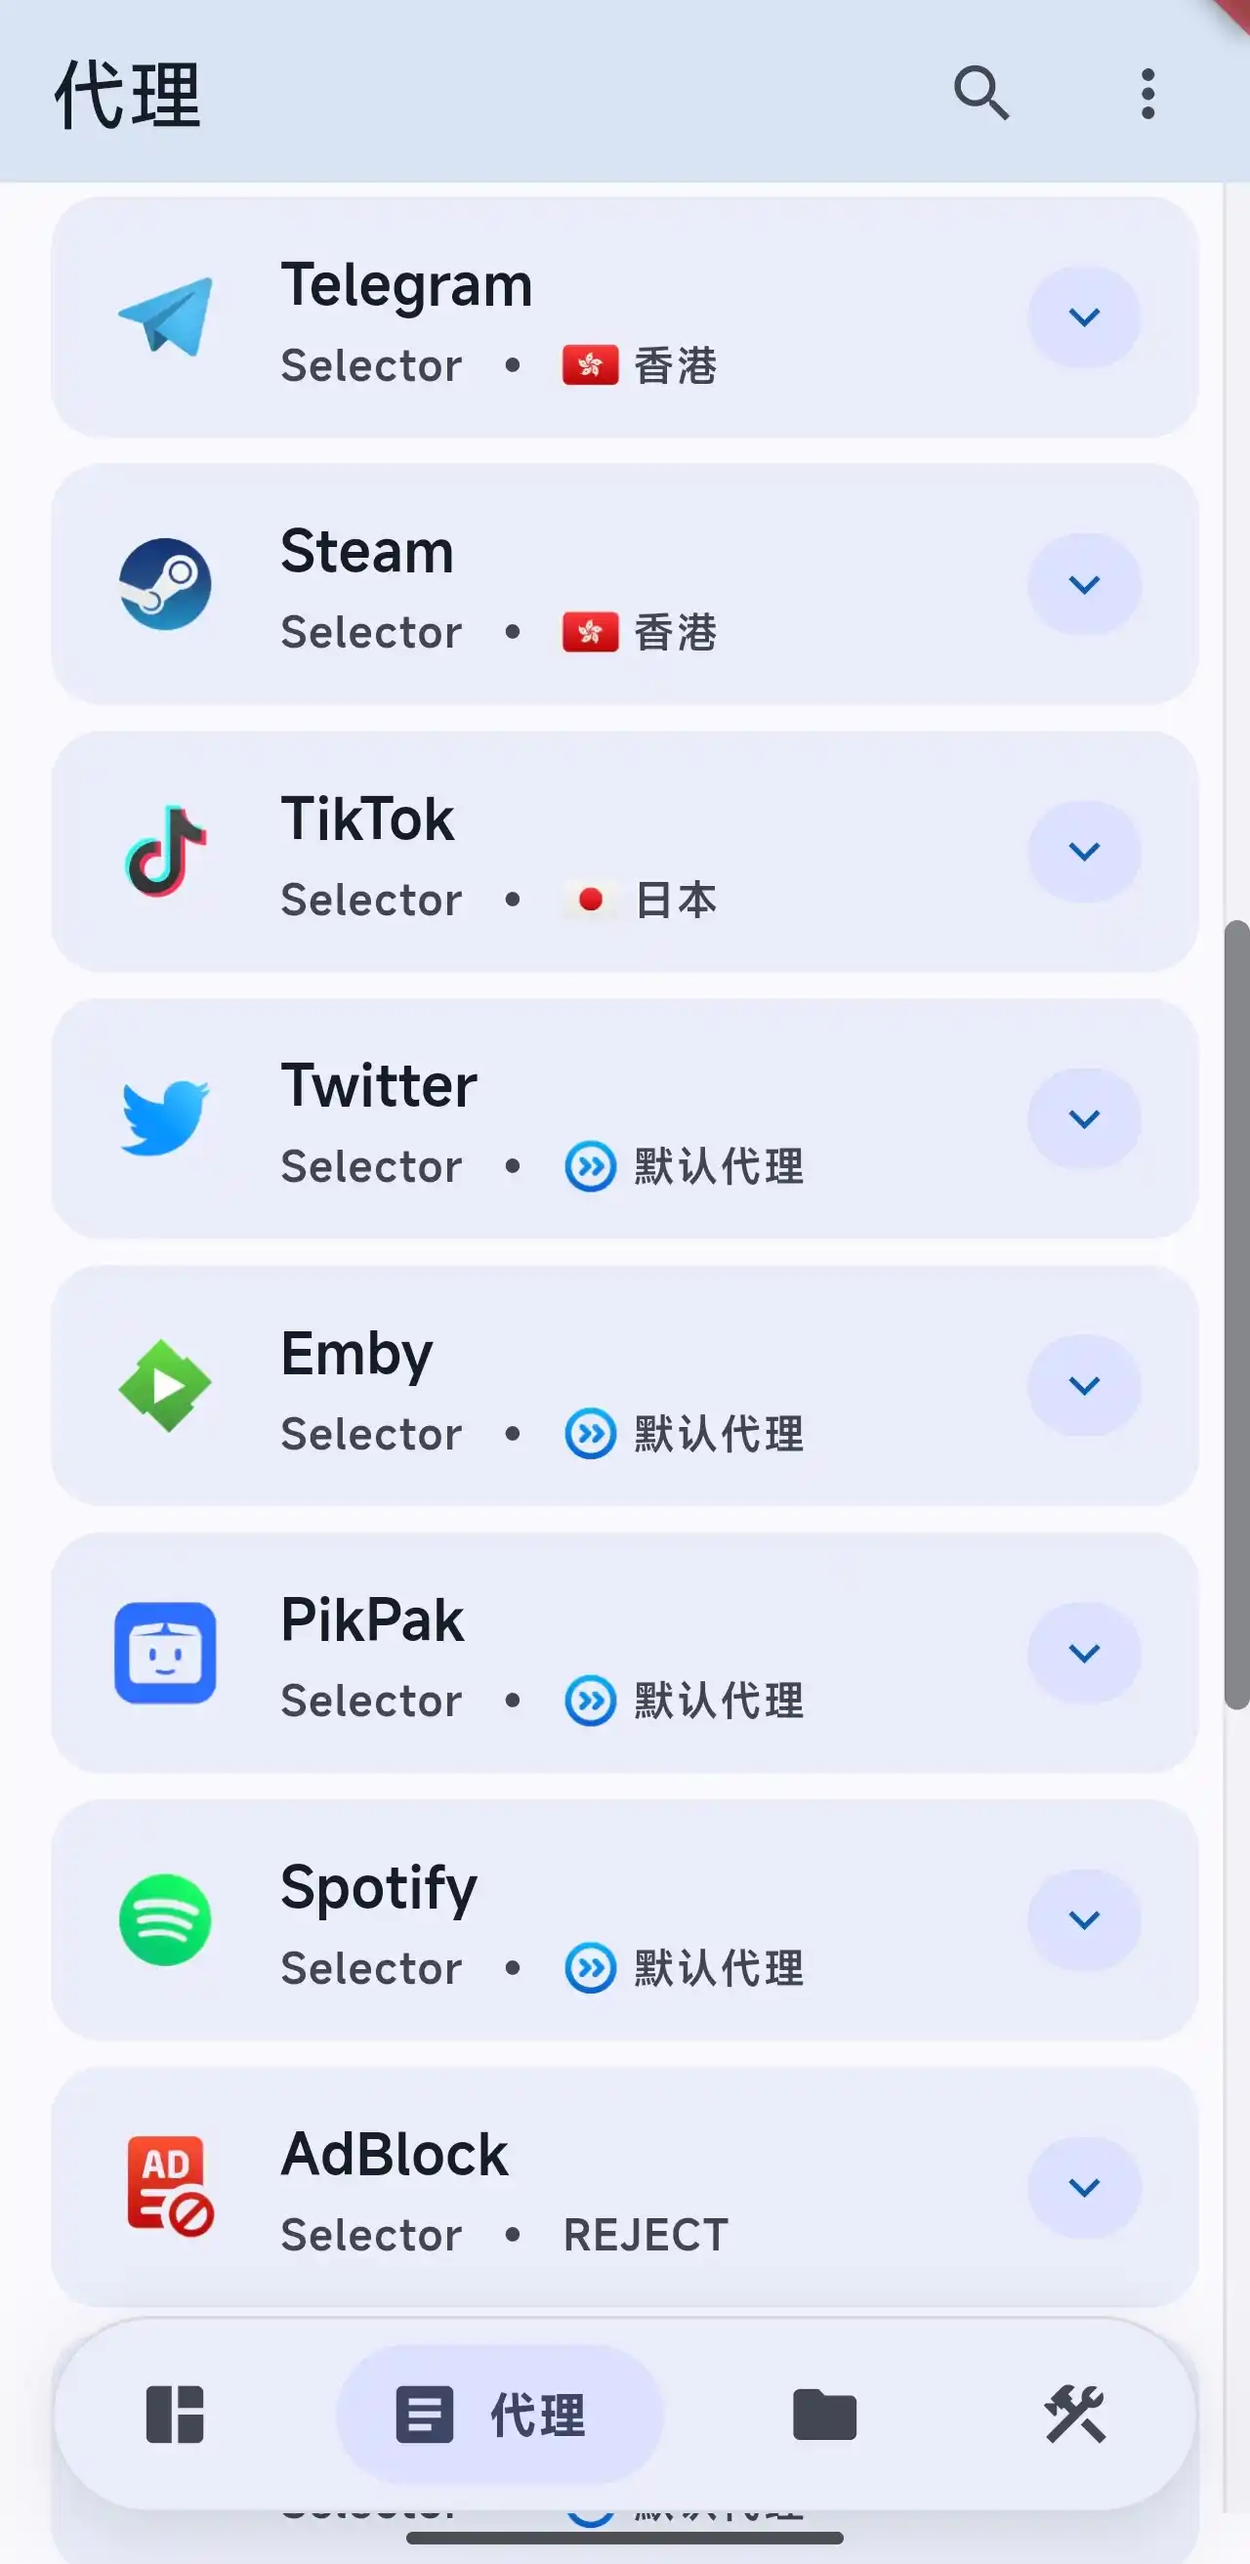
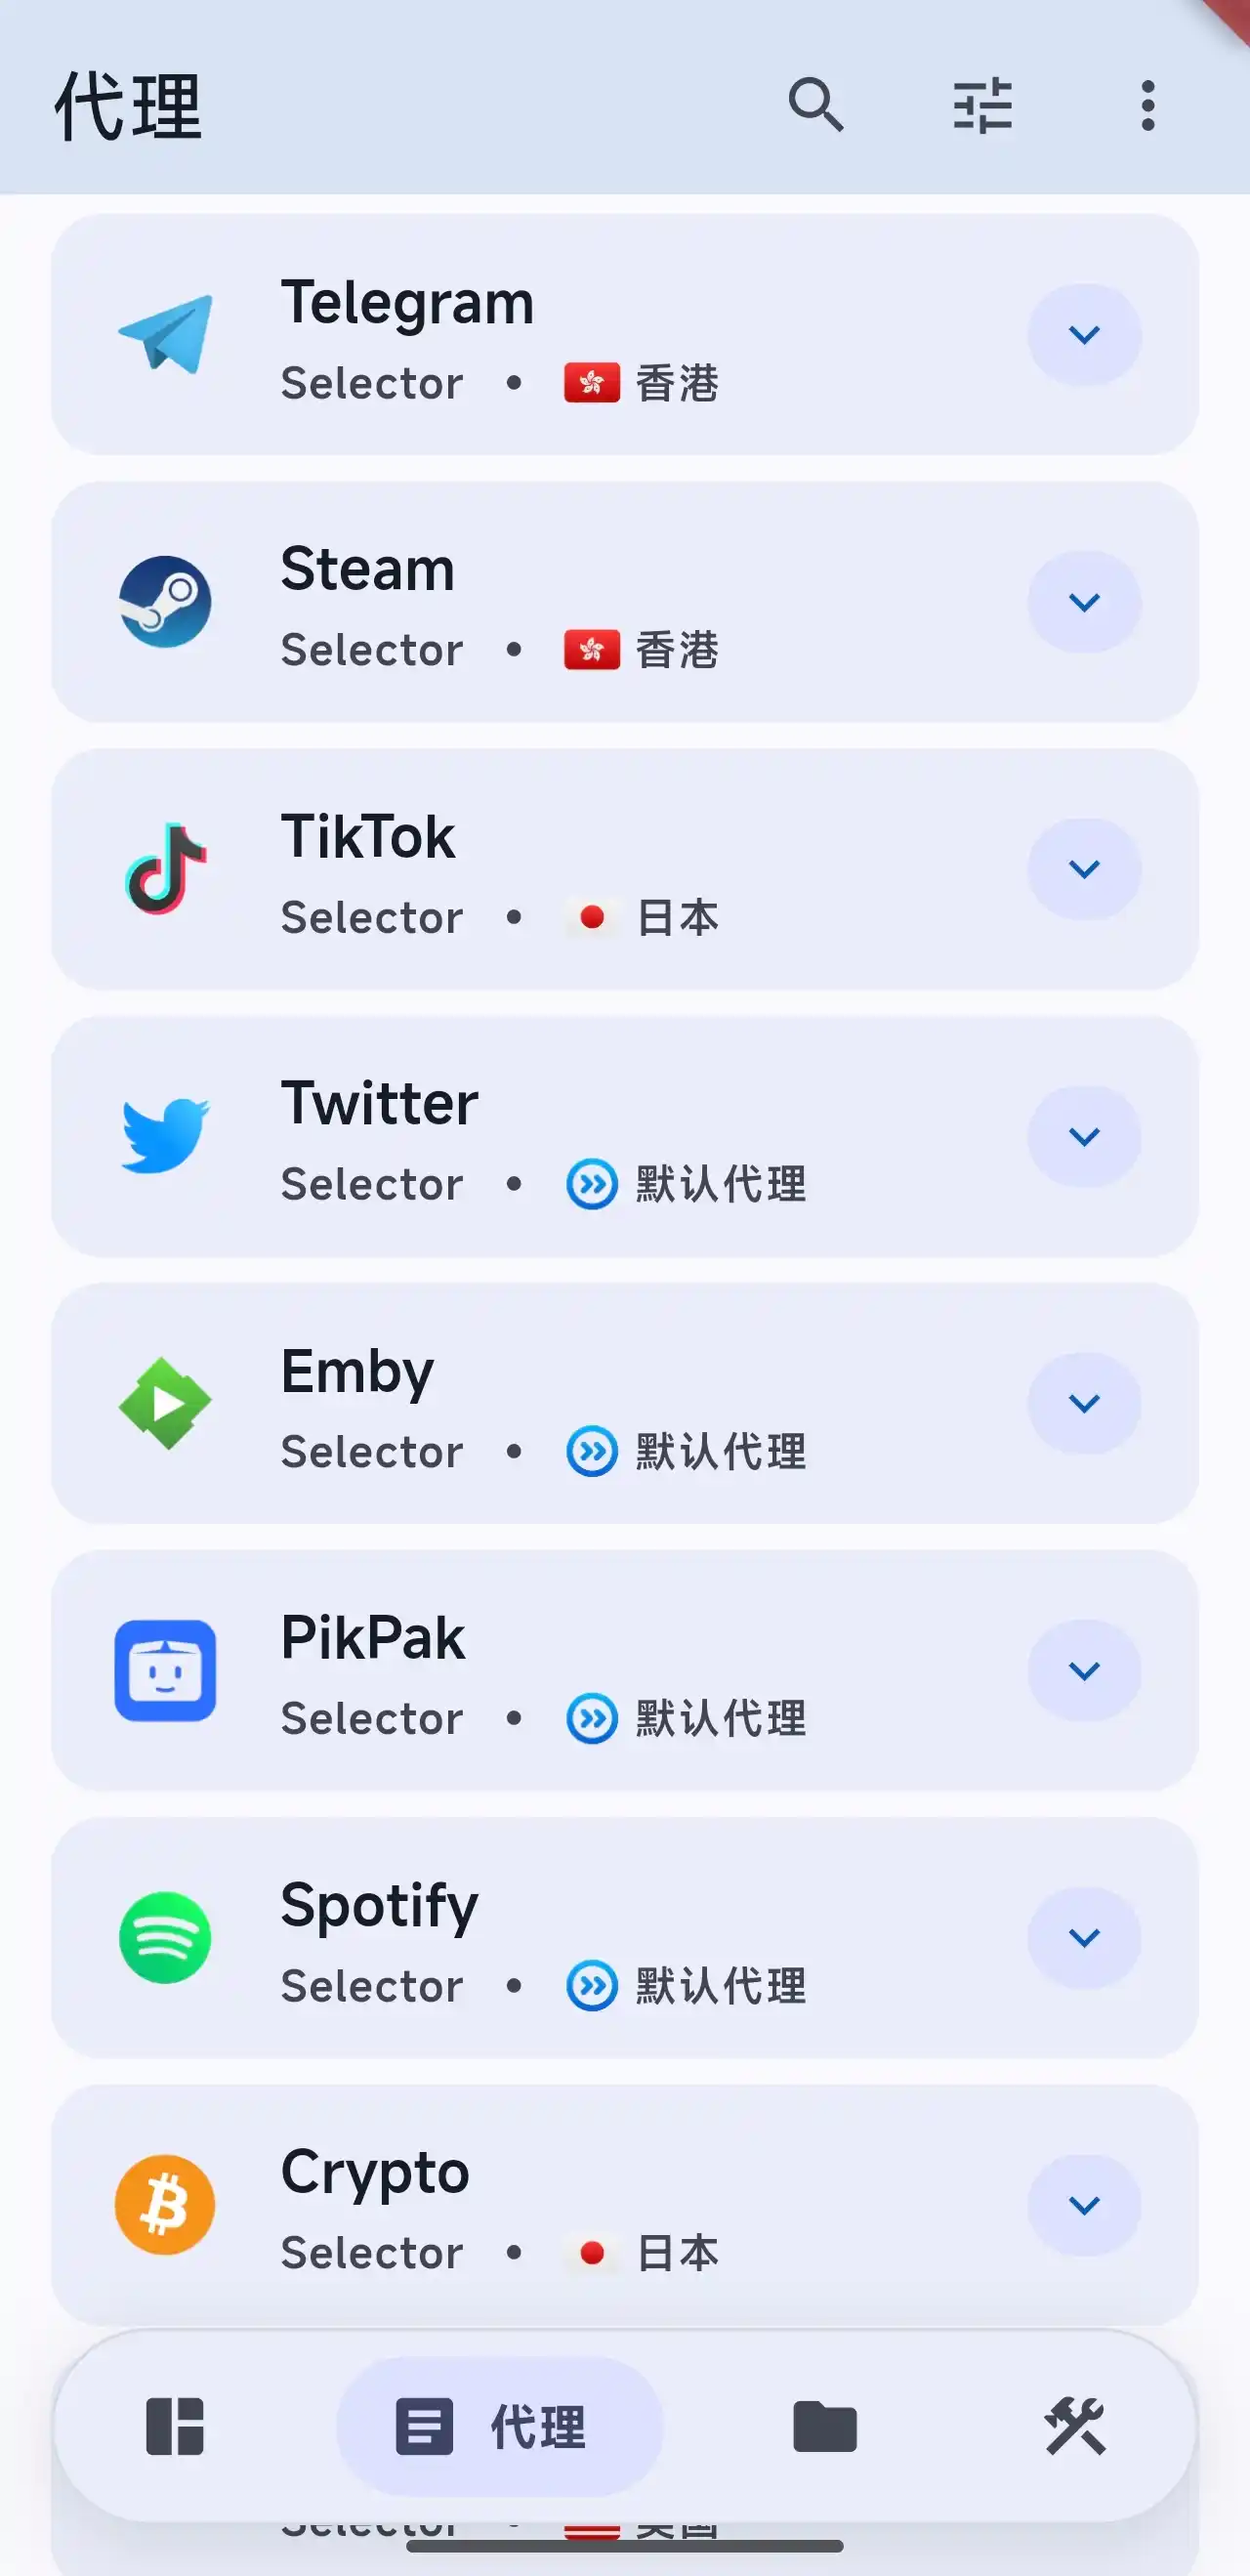
feat: 新增 Crypto 策略组

diff --git a/Script/mihomoScript.js b/Script/mihomoScript.js
@@ -31,6 +31,7 @@ const ruleOptionsEnable = {
   Emby: true, // Emby媒体服务
   PikPak: true, // PikPak网盘服务
   Spotify: true, // Spotify音乐服务
+  Crypto: true, // 加密货币相关服务
   EHentai: true, // E-Hentai网站
   AdBlock: true, // 广告拦截
 
@@ -533,6 +534,20 @@ const serviceConfigs = [
     },
     icon: 'https://fastly.jsdelivr.net/gh/Koolson/Qure@master/IconSet/Color/Spotify.png',
     rules: ['RULE-SET,spotify,Spotify'],
+  },
+  {
+    name: 'Crypto',
+    defaultSelected: '日本',
+    providers: {
+      cryptocurrency: {
+        ...ruleProviderCommonDomain,
+        url: 'https://fastly.jsdelivr.net/gh/MetaCubeX/meta-rules-dat@meta/geo/geosite/category-cryptocurrency.mrs',
+        path: './ruleset/cryptocurrency.mrs',
+        'path-in-bundle': 'geo/geosite/category-cryptocurrency.mrs',
+      },
+    },
+    icon: 'https://fastly.jsdelivr.net/gh/lige47/QuanX-icon-rule@main/icon/04ProxySoft/Bitcoin.png',
+    rules: ['RULE-SET,cryptocurrency,Crypto'],
   },
   {
     name: 'EHentai',
